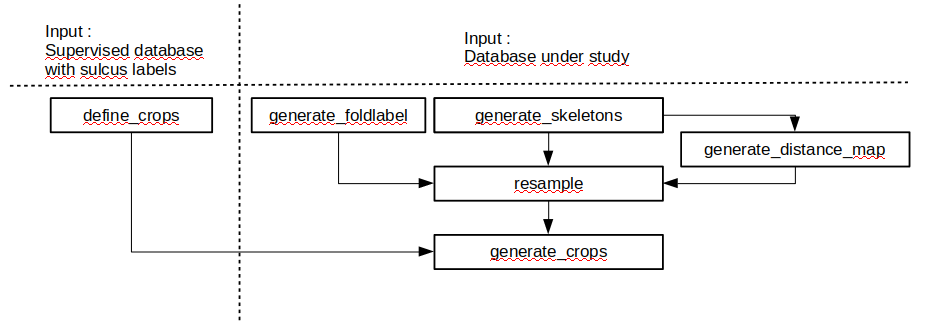
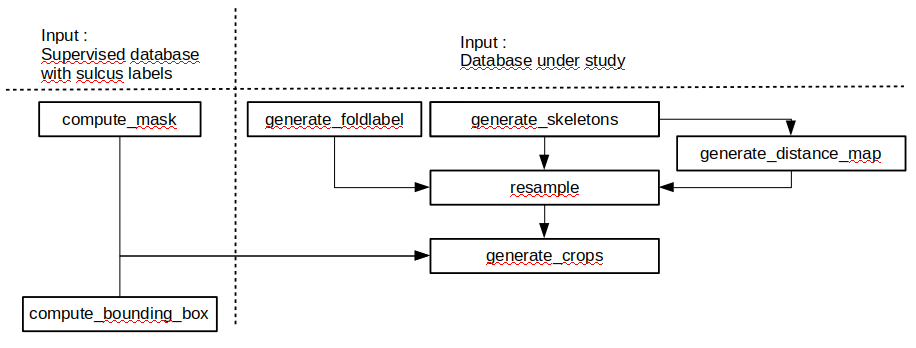
Adds README for compute_bounding_box

diff --git a/deep_folding/brainvisa/README.rst b/deep_folding/brainvisa/README.rst
@@ -1,44 +1,76 @@
-Anatomist Tools
-###############
+deep_folding.brainvisa
+######################
 
 This folder contains scripts that work with BrainVISA/Anatomist.
 
 .. image:: ../../docs/general_scheme.png
-  :width: 400
-
+  :width: 600
 
 
 Step-by-step tutorial: generate a dataset
 =========================================
 
+We start by computing, for each sulcus, bounding boxes and masks.
+For this, we are using a manually labelled database. At the end of the programs,
+we will have a bounding box that encompasses the sulcus with the given name
+for all subjects. In the same way, we will obtain a mask that encompasses
+the given sulcus for all subjects.
+
+We suppose that we have already installed brainvisa singularity image 
+and the deep_folding module following the steps described in 
+_`../../README.rst`_
+
+We first need to enter in the brainvisa singularity bash:
+
+.. code-block:: shell
+
+   bv bash
+
+We then define the parameters to launch :
+
+.. code-block:: shell
+
+   # We change the following variable with our manually labelled dataset.
+   # This one is the one used at Neurospin:
+   SRC_DIR_SUPERVISED=/neurospin/dico/data/bv_databases/human/pclean/all
+   # Hemisphere side
+   SIDE=R
+   # Output voxel size
+   VOXEL_SIZE=1.0
+   # Folder in which to write the results
+   BBOX_DIR=/neurospin/dico/data/deep_folding/test/bbox/${VOXEL_SIZE}mm/${SIDE}
+   # sulcus name (without the _left or _right extension)
+   SULCUS=F.C.M.ant.
+   # Relative path of graph in the folder hierarchy of the subject
+   PATH_TO_GRAPH=t1mri/t1/default_analysis/folds/3.3/base2018_manual
 
 
+We then go to the deep_folding/brainvisa folder:
+
+.. code-block:: shell
+
+   cd deep_folding/brainvisa
+
+We then determine the bounding box around the sulcus named SULCUS:
+
+.. code-block:: shell
+
+  python3 compute_bounding_box.py -s $SRC_DIR_SUPERVISED
+  -b $BBOX_DIR -u $SULCUS -i $SIDE -p $PATH_TO_GRAPH -x $VOXEL_SIZE
+
+This will create in the $BBOX_DIR three files 
+(SIDE is now either 'left' or 'right'):
+* a json file ${SULCUS}_${SIDE}.json: it contains the bounding box coordinates
+* a bash file command_line_${SULCUS}_${SIDE}.sh: we can the launch this file
+from deep_folding/brainvisa to reproduce the results
+* a log file log_${SULCUS}_${SIDE}.log: it contains the log of the command
+
+Last, we determine the mask around the sulcus named SULCUS:
+
+.. code-block:: shell
+
+   SRC_DIR=
 
 
-Description of modules
-======================
-
-mask.py
--------
-Outputs the bounding box of a specific sulcus based on a manually labeled dataset.
-Boundig boxes ared defined in the normalized SPM space
-
-load_data.py
-------------
-Enables to create and to save to .pickle a dataframe of numpy arrays from a folder of .nii.gz or
-.nii images.
-Subjects IDs are kept.
-
-display.py
-----------
-Diplays model's outputs (saved as numpy arrays) in an Anatomist window.
-
-benchmark_generation.py
------------------------
-Creates altered skeletons (with some simple surfaces lacking) benchmark.
-
-benchmark_pipeline.py
----------------------
-Normalizes, resamples and crops the altered skeletons.
 
 
